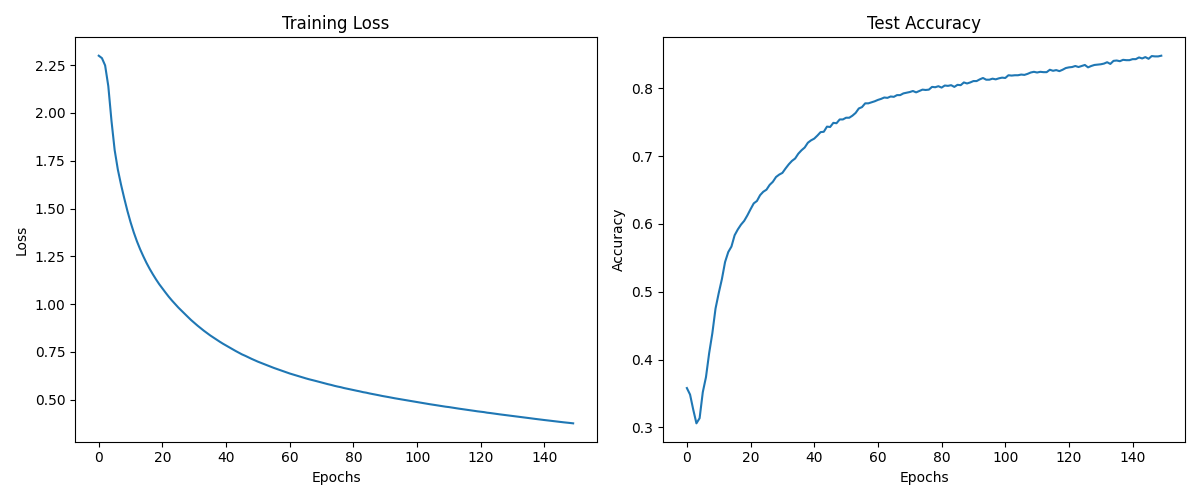
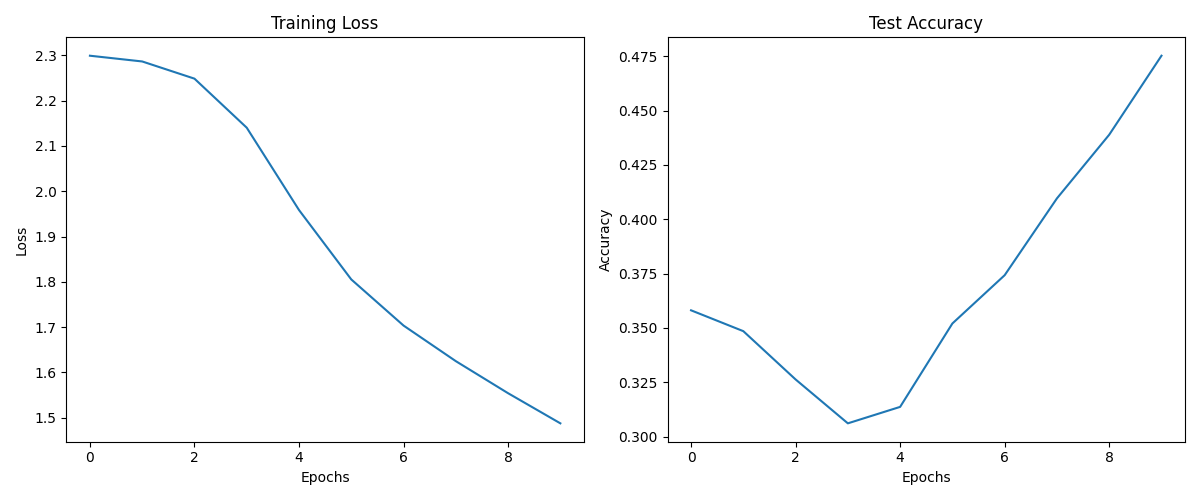
updated FormatDataToUse

diff --git a/Task4.py b/Task4.py
@@ -1,9 +1,11 @@
 import numpy as np
 import pandas as pd
+import formatDataToUse as fdtu
 import matplotlib.pyplot as plt
+import seaborn as sns
+from sklearn.metrics import confusion_matrix, precision_score, recall_score, f1_score, classification_report
 
 # === Load all datasets ===
-
 
 def load_dataset(path):
     df = pd.read_csv(path, sep='\t')
@@ -45,7 +47,6 @@ print(f"Train set: {X_train.shape}, Test set: {X_test.shape}")
 
 # === One-hot encode labels ===
 
-
 def one_hot(y, num_classes):
     return np.eye(num_classes)[y]
 
@@ -55,7 +56,6 @@ y_train_oh = one_hot(y_train, num_classes)
 y_test_oh = one_hot(y_test, num_classes)
 
 # === Neural Network Functions ===
-
 
 def relu(x):
     return np.maximum(0, x)
@@ -87,7 +87,7 @@ input_size = X_train.shape[1]
 hidden_size = 64  # Single hidden layer with 64 neurons, exactly as original
 output_size = num_classes
 learning_rate = 0.01  # Fixed learning rate as in original
-epochs = 150  # 50 epochs as in original
+epochs = 10  # 50 epochs as in original
 batch_size = 64  # 64 batch size as in original
 
 # Use the same initialization as original code
@@ -158,54 +158,30 @@ final_probs = softmax(relu(X_test @ W1 + b1) @ W2 + b2)
 predicted_classes = np.argmax(final_probs, axis=1)
 true_classes = y_test
 
-# Calculate confusion matrix
-
-
-def confusion_matrix(y_true, y_pred, num_classes):
-    cm = np.zeros((num_classes, num_classes), dtype=int)
-    for i in range(len(y_true)):
-        cm[y_true[i]][y_pred[i]] += 1
-    return cm
-
-
-cm = confusion_matrix(true_classes, predicted_classes, num_classes)
-
-# Calculate precision, recall, and F1 score
-
-
-def calculate_metrics(cm):
-    precision = np.zeros(num_classes)
-    recall = np.zeros(num_classes)
-    f1 = np.zeros(num_classes)
-
-    for i in range(num_classes):
-        # Precision = TP / (TP + FP)
-        precision[i] = cm[i, i] / max(np.sum(cm[:, i]), 1)
-
-        # Recall = TP / (TP + FN)
-        recall[i] = cm[i, i] / max(np.sum(cm[i, :]), 1)
-
-        # F1 = 2 * (precision * recall) / (precision + recall)
-        if precision[i] + recall[i] > 0:
-            f1[i] = 2 * precision[i] * recall[i] / (precision[i] + recall[i])
-
-    return precision, recall, f1
-
-
-precision, recall, f1 = calculate_metrics(cm)
-
 # GENRE_MAP for output
 GENRE_MAP = {
     0: "pop", 1: "metal", 2: "disco", 3: "blues", 4: "reggae",
     5: "classical", 6: "rock", 7: "hiphop", 8: "country", 9: "jazz"
 }
 
+# === Calculate and Plot Confusion Matrix using sklearn ===
+cm = confusion_matrix(true_classes, predicted_classes)
+
+# Create genre name list from GENRE_MAP
+genre_names = [GENRE_MAP[i] for i in range(num_classes)]
+
+# Plot the confusion matrix
+print("\nConfusion Matrix:")
+fdtu.plot_confusion_matrix(cm, genre_names)
+
+# === Calculate Metrics using sklearn ===
+precision = precision_score(true_classes, predicted_classes, average=None)
+recall = recall_score(true_classes, predicted_classes, average=None)
+f1 = f1_score(true_classes, predicted_classes, average=None)
+
 # Print results
 print("\nTraining complete!")
 print(f"Final Test Accuracy: {test_accuracies[-1]*100:.2f}%")
-
-print("\nConfusion Matrix:")
-print(cm)
 
 print("\nClassification Report:")
 print(f"{'Genre':<12} {'precision':>10} {'recall':>10} {'f1-score':>10}")
@@ -214,11 +190,18 @@ for i in range(num_classes):
     print(
         f"{GENRE_MAP[i]:<12} {precision[i]:>10.2f} {recall[i]:>10.2f} {f1[i]:>10.2f}")
 
+# Get complete classification report from sklearn
+print("\nDetailed Classification Report from sklearn:")
+report = classification_report(true_classes, predicted_classes, 
+                              target_names=genre_names, 
+                              digits=4)
+print(report)
+
 # Calculate overall metrics
 accuracy = np.sum(np.diag(cm)) / np.sum(cm)
-macro_precision = np.mean(precision)
-macro_recall = np.mean(recall)
-macro_f1 = np.mean(f1)
+macro_precision = precision_score(true_classes, predicted_classes, average='macro')
+macro_recall = recall_score(true_classes, predicted_classes, average='macro')
+macro_f1 = f1_score(true_classes, predicted_classes, average='macro')
 
 print("\nAccuracy: {:.4f}".format(accuracy))
 print("Macro Precision: {:.4f}".format(macro_precision))

diff --git a/Task3.py b/Task3.py
@@ -108,6 +108,20 @@ predictions = knn_predict(train_X, train_y, test_X, k=5)
 print("Classification Report (macro avg):")
 print(classification_report(test_y, predictions, zero_division=0))
 
+print("Confusion Matrix:")
+cm = confusion_matrix(test_y, predictions)
+def plot_cm(cm, labels):
+    import matplotlib.pyplot as plt
+    import seaborn as sns
+
+    plt.figure(figsize=(10, 7))
+    sns.heatmap(cm, annot=True, fmt='d', cmap='Blues', xticklabels=labels, yticklabels=labels)
+    plt.xlabel('Predicted')
+    plt.ylabel('True')
+    plt.title('Confusion Matrix')
+    plt.show()
+plot_cm(cm, np.unique(test_y))
+
 
 # Output:
 # Selected 4 features for your model:

diff --git a/formatDataToUse.py b/formatDataToUse.py
@@ -1,6 +1,8 @@
 import pandas as pd
 import os 
 import numpy as np
+import matplotlib.pyplot as plt
+import seaborn as sns
 
 
 
@@ -24,7 +26,16 @@ def get_features_dict(data, list_feat):
     
         
     return feature_map
-        
+
+def plot_confusion_matrix(cm, class_names):
+    plt.figure(figsize=(10, 8))
+    sns.heatmap(cm, annot=True, fmt='d', cmap='Blues', 
+                xticklabels=class_names, 
+                yticklabels=class_names)
+    plt.xlabel('Predicted')
+    plt.ylabel('True')
+    plt.title('Confusion Matrix')
+    plt.show()
         
 def create_data(feature_map, features, target, partition):
     training_data = []
